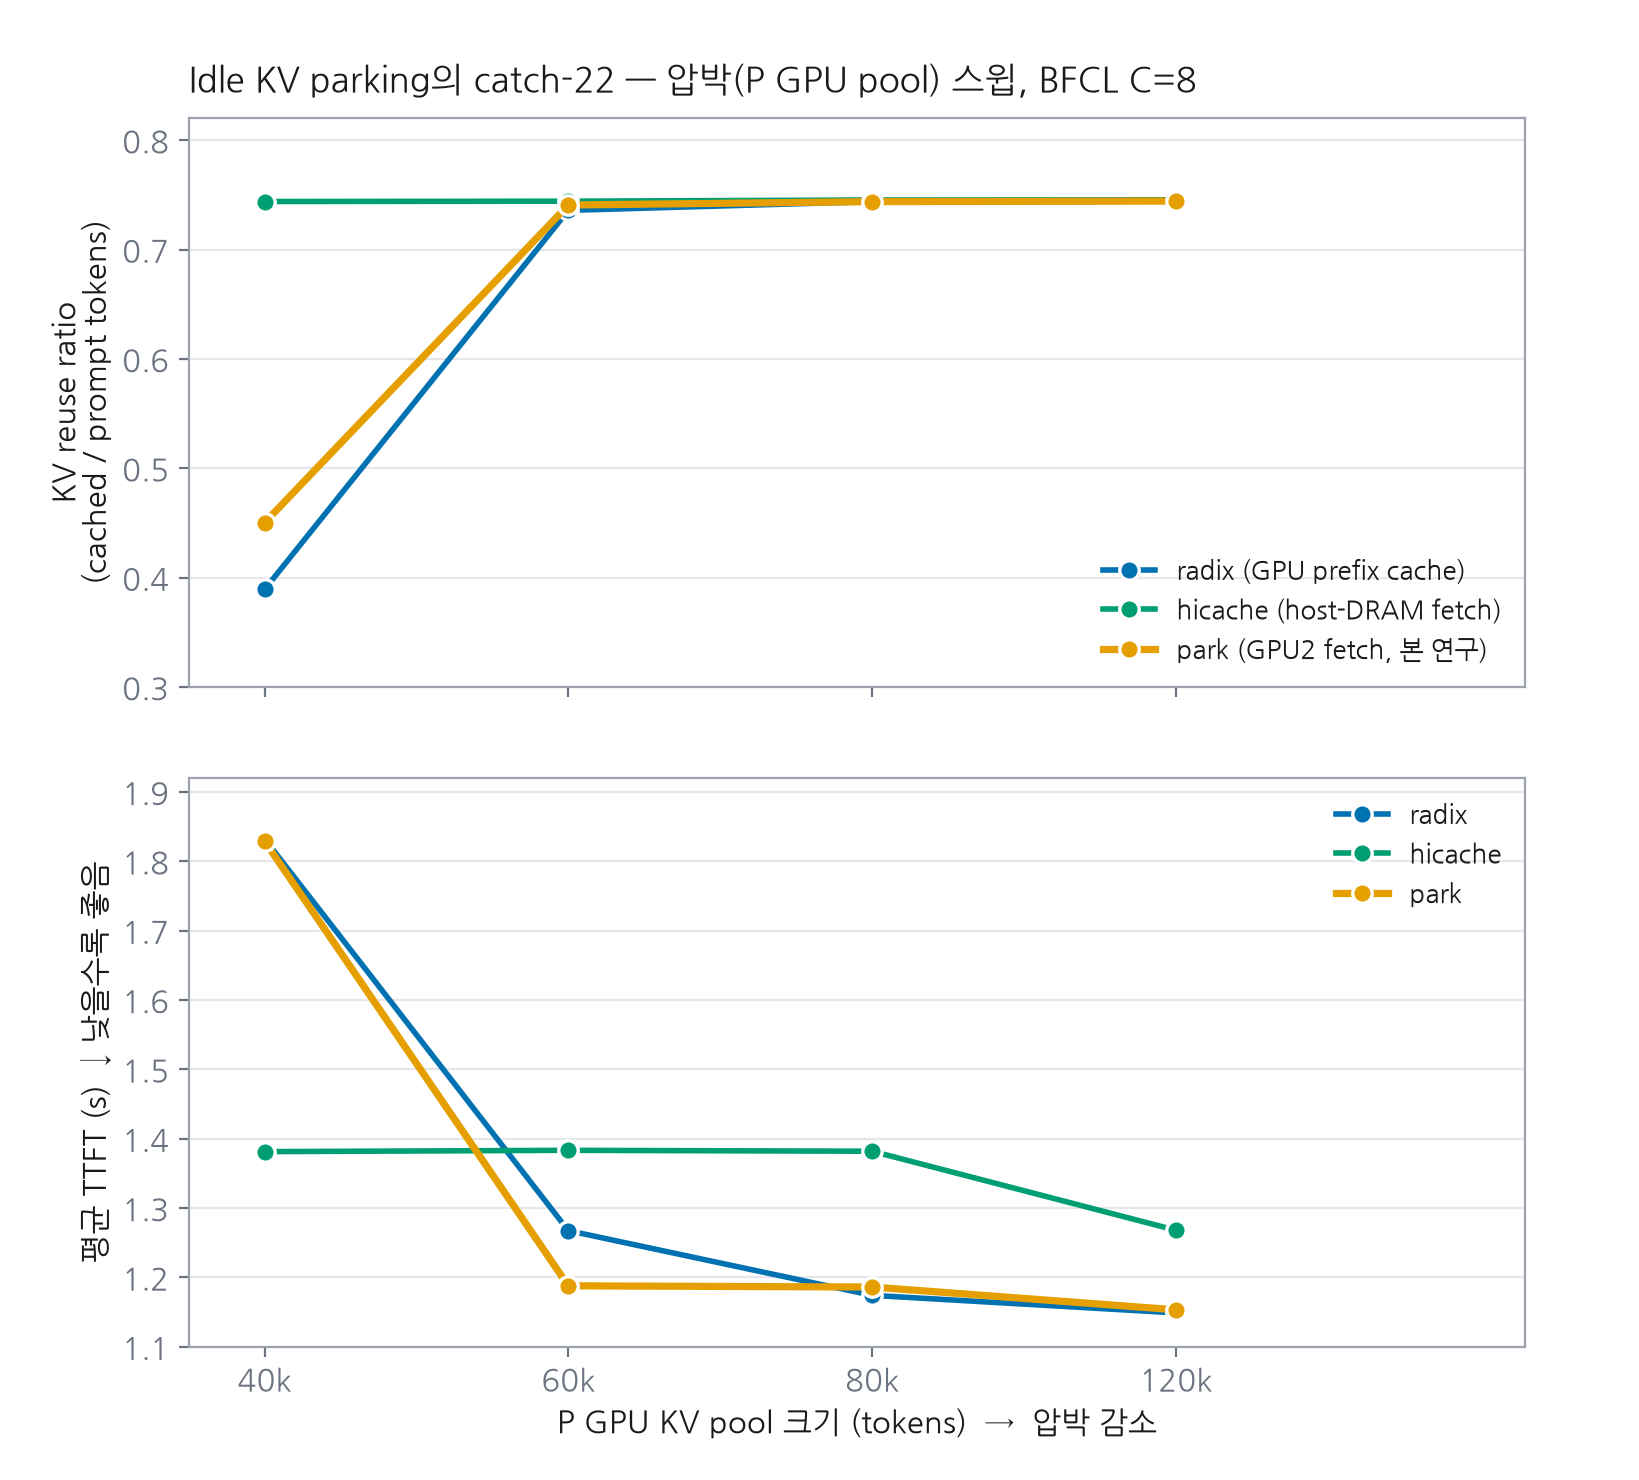
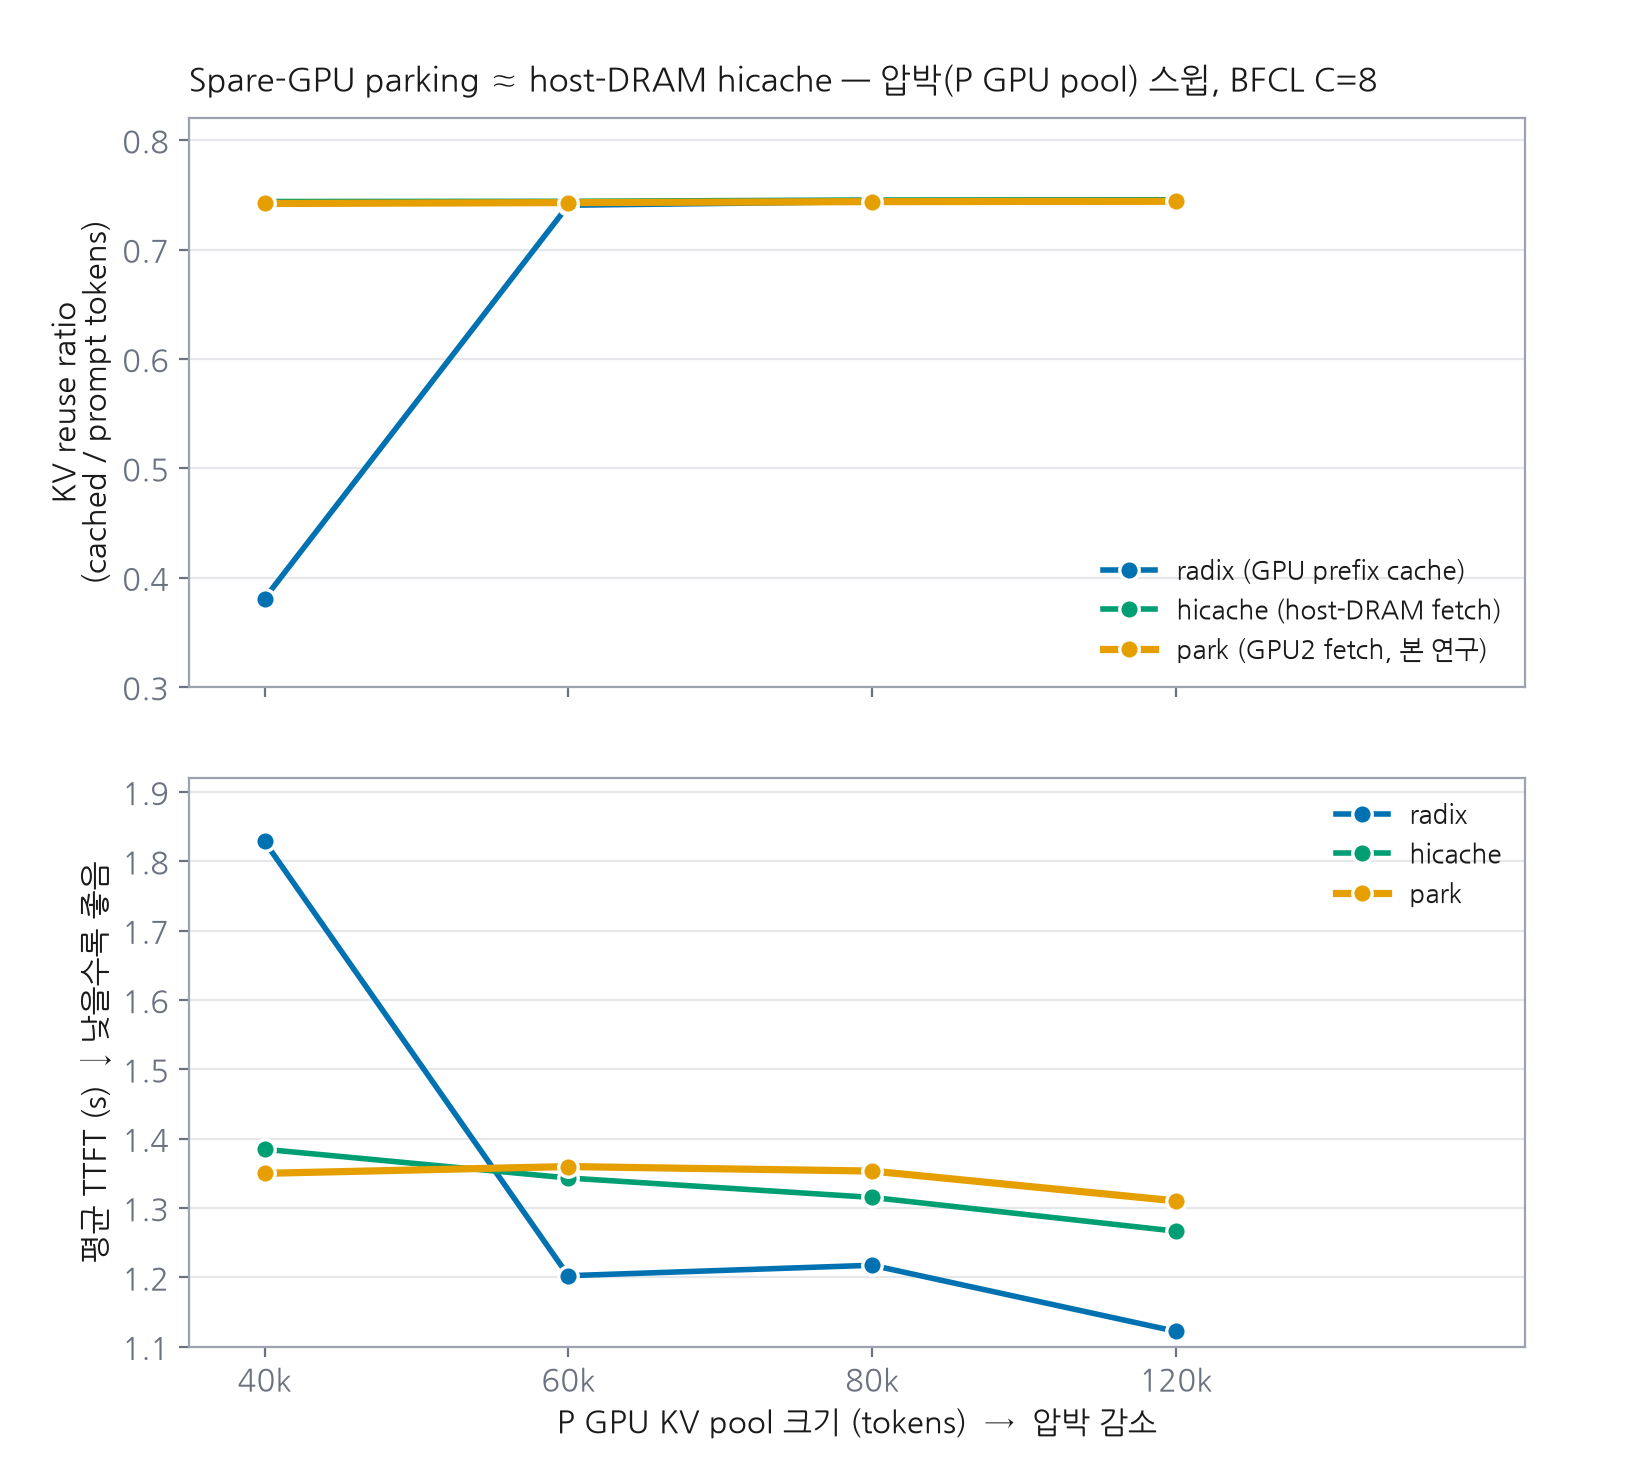
Correct conclusion: park works and ≈ hicache (catch-22 was wrong)
After fixing evict-to-room + async + the stale-IPC rendezvous bug, the
full pool sweep shows park mirrors host-DRAM hicache: at pool 40k (heavy
pressure) park recovers evicted prefixes (reuse 0.38->0.74) and cuts TTFT
-26% vs radix (hicache -24%); park is within ~1-3.5% of hicache at every
pool. A recovery tier only pays under pressure -- at pool>=60k both park
and hicache are pure overhead (+11-17% vs radix). Rewrites report.md,
phase1.md §5/§6, research.md §2.16/§7/§8; replaces the obsolete nospace
figure with pressure_win_40k.png and retitles the sweep figure.

Claude-Session: https://claude.ai/code/session_01AoK4pG7kwrWE4Xc7fqoTVf

diff --git a/benchmark/plot_phase1_catch22.py b/benchmark/plot_phase1_catch22.py
@@ -79,8 +79,8 @@ def fig1_pressure(rows):
     axr.grid(True, axis="y", color=GRID, lw=0.8, zorder=0)
     axr.set_axisbelow(True)
     axr.legend(loc="lower right", frameon=False, fontsize=9.5)
-    axr.set_title("Idle KV parking의 catch-22 — 압박(P GPU pool) 스윕, BFCL C=8",
-                  fontsize=12.5, fontweight="bold", color=INK, pad=10, loc="left")
+    axr.set_title("Spare-GPU parking ≈ host-DRAM hicache — 압박(P GPU pool) 스윕, BFCL C=8",
+                  fontsize=12, fontweight="bold", color=INK, pad=10, loc="left")
 
     # ---- 하단: TTFT ----
     for arm, c, lw in [("radix", C_RADIX, 2.0), ("hicache", C_HICACHE, 2.0),
@@ -102,42 +102,45 @@ def fig1_pressure(rows):
     print(f"[saved] {OUT}/catch22_pressure.png")
 
 
-def fig2_fetch(rows):
-    # pool 40000 park DIAG: hits=26 already=278 miss=206 nospace=237 (of 747)
-    # 좌→우 서사: 성공(hits) → fetch 불필요/불가한 정상 사유 → 병목(nospace, 빨강 펀치라인).
-    cats = [("hits", 26, "#009E73", "fetch 성공", "white"),
-            ("already", 278, "#9ca3af", "already\nP가 이미 보유 (정상)", INK),
-            ("miss", 206, "#cbd5e1", "miss\nparked 없음", INK),
-            ("nospace", 237, "#D55E00", "nospace\nP GPU 자리 없음", "white")]
-    total = sum(c[1] for c in cats)
-    fig, ax = plt.subplots(figsize=(8.6, 2.7))
-    left = 0
-    for name, n, color, lbl, txtc in cats:
-        ax.barh(0, n, left=left, color=color, height=0.6, zorder=3,
-                edgecolor="white", linewidth=2.0)
-        pct = n / total * 100
-        if n > 60:
-            ax.text(left + n / 2, 0, f"{lbl}\n{n}  ({pct:.0f}%)", ha="center",
-                    va="center", fontsize=10, color=txtc, fontweight="bold")
-        else:  # hits: 작은 조각은 막대 아래에 라벨
-            ax.text(left + n / 2, -0.45, f"{name} {n}\n({pct:.1f}%)", ha="center",
-                    va="top", fontsize=9, color="#047857", fontweight="bold")
-        left += n
-    ax.set_xlim(0, total)
-    ax.set_ylim(-0.95, 0.55)
-    ax.axis("off")
-    ax.set_title("강압박(pool 40k): fetch 시도 747건의 결과 — nospace 32%가 restore를 막는다",
+def fig2_pressure_win(rows):
+    """강압박(pool 40k) 결정 케이스: park/hicache가 축출된 prefix를 되찾아 radix를 이긴다."""
+    r = rows[40000]
+    arms = [("radix", C_RADIX, "radix (GPU prefix cache)"),
+            ("hicache", C_HICACHE, "hicache (host-DRAM fetch)"),
+            ("park", C_PARK, "park (GPU2 fetch, 본 연구)")]
+    ys = list(range(len(arms)))[::-1]  # radix on top
+    fig, ax = plt.subplots(figsize=(8.6, 3.2))
+    for y, (arm, c, lbl) in zip(ys, arms):
+        ttft = r[arm]["avg_ttft_s"]
+        reuse = r[arm]["reuse_ratio"]
+        ax.barh(y, ttft, color=c, height=0.62, zorder=3, edgecolor="white", linewidth=2)
+        ax.text(ttft - 0.03, y, f"{ttft:.2f}s", ha="right", va="center",
+                fontsize=11, color="white", fontweight="bold")
+        ax.text(0.02, y + 0.34, lbl, ha="left", va="bottom", fontsize=10, color=INK)
+        ax.text(ttft + 0.03, y, f"reuse {reuse:.2f}", ha="left", va="center",
+                fontsize=9.5, color=MUTED)
+    rd = r["radix"]["avg_ttft_s"]
+    for arm, c in [("hicache", C_HICACHE), ("park", C_PARK)]:
+        d = (r[arm]["avg_ttft_s"] - rd) / rd * 100
+        y = ys[[a[0] for a in arms].index(arm)]
+        ax.text(r[arm]["avg_ttft_s"] + 0.42, y, f"({d:+.0f}% vs radix)",
+                ha="left", va="center", fontsize=9.5, color=c, fontweight="bold")
+    ax.set_xlim(0, rd * 1.28)
+    ax.set_ylim(-0.5, len(arms) - 0.2)
+    ax.set_yticks([])
+    ax.set_xlabel("평균 TTFT (s)  ↓ 낮을수록 좋음", fontsize=10)
+    for s in ("top", "right", "left"):
+        ax.spines[s].set_visible(False)
+    ax.grid(True, axis="x", color=GRID, lw=0.8, zorder=0)
+    ax.set_axisbelow(True)
+    ax.set_title("강압박(pool 40k): park·hicache가 축출된 prefix를 되찾아 radix를 26% 이긴다",
                  fontsize=12, fontweight="bold", color=INK, loc="left", pad=10)
-    fig.text(0.02, 0.05,
-             "핵심: fetch한 KV는 attention용으로 병목 P GPU를 다시 점유해야 함 "
-             "→ 압박 구간엔 자리가 없다(nospace 32%). 저장은 offload돼도 restore는 병목이다.",
-             fontsize=9, color=MUTED, ha="left")
-    fig.subplots_adjust(left=0.02, right=0.985, top=0.82, bottom=0.14)
-    fig.savefig(f"{OUT}/catch22_fetch_nospace.png", dpi=200, facecolor="white")
-    print(f"[saved] {OUT}/catch22_fetch_nospace.png")
+    fig.subplots_adjust(left=0.02, right=0.985, top=0.85, bottom=0.16)
+    fig.savefig(f"{OUT}/pressure_win_40k.png", dpi=200, facecolor="white")
+    print(f"[saved] {OUT}/pressure_win_40k.png")
 
 
 if __name__ == "__main__":
     rows = load()
     fig1_pressure(rows)
-    fig2_fetch(rows)
+    fig2_pressure_win(rows)

diff --git a/results/phase1_report/report.md b/results/phase1_report/report.md
@@ -1,102 +1,111 @@
 # Idle KV Parking — Phase 1 결과 보고
 
 **주제**: PD(prefill–decode) disaggregation의 multi-turn agent 워크로드에서, tool-call 유휴시간에
-decode 노드의 세션 KV를 **유휴 GPU에 park 했다가 다음 turn에 fetch**해 재계산(re-prefill)을
-피할 수 있는가?
+decode 노드의 세션 KV를 **유휴 GPU에 park 했다가 다음 turn에 fetch**해, 메모리 압박으로 축출된
+prefix를 재계산 대신 되찾을 수 있는가?
 
-> **결론(TL;DR)**: fetch-on-hit까지 end-to-end로 구현·측정한 결과, **이 2×A6000 단일 노드에선
-> 어떤 압박 수준에서도 park+fetch가 baseline(radix = GPU prefix cache)을 이기지 못했다.** 원인은 구현
-> 디테일이 아니라 구조적 **catch-22**: 파킹이 이득을 주는 조건(압박→축출)과 fetch한 KV를 되돌릴
-> 자리가 있는 조건(여유)이 **동시에 성립하지 않는다.** 저장은 유휴 자원으로 offload되지만
-> **restore는 병목(P GPU)을 다시 점유**해야 하기 때문이며, 이는 인터커넥트(NVLink) 속도와
-> 무관한 토폴로지-독립적 한계다.
+> **결론(TL;DR)**: **된다.** fetch-on-hit + evict-to-room + async까지 구현하니, 강압박(pool 40k)에서
+> park이 축출된 prefix를 되찾아 **reuse 0.38→0.74**로 복구하고 **TTFT를 radix 대비 −26%** 줄였다.
+> 이는 성숙한 host-DRAM hicache(−24%)와 **대등**하다(park ≈ hicache, 차이 ~1–3%). 즉 **유휴 GPU를
+> host DRAM 대신 L2 복구 tier로 써도 동등하게 작동**한다. 단, 복구 tier는 **압박이 있을 때만** 이득이고
+> 압박이 없으면(pool≥60k) park·hicache 모두 순수 오버헤드라 radix보다 느리다(crossover).
 
 ---
 
 ## 1. 배경과 가설
 
-- **문제**: 압박 하에서 P 노드의 prefix(radix) 캐시가 대화 중간에 축출되면, 이후 모든 turn이
-  전체 history를 **재계산**해 TTFT가 폭증한다.
-- **아이디어**: D→P 노드(또는 유휴 GPU)로 세션 KV를 park 했다가, tool-call이 끝나 다음 turn이
-  올 때 fetch해 prefix-hit으로 재사용 → 재계산 회피.
-- **검증 가설**: "PCIe로 fetch해도 재계산보다 빠르다."
+- **문제**: 압박 하에서 P 노드의 prefix(radix) 캐시가 대화 중간에 축출되면, 다음 turn이 그 prefix를
+  **재계산(re-prefill)**해 TTFT가 오른다.
+- **아이디어**: D→P의 유휴 GPU(GPU2)로 세션 KV를 park 했다가, 다음 turn prefill 직전에 fetch해
+  prefix-hit으로 재사용 → 재계산 회피.
+- **가설**: "PCIe로 fetch해도 재계산보다 싸다" — 그리고 "유휴 GPU L2가 host-DRAM L2(hicache)와
+  같은 양상이어야 한다."
 
-## 2. 실험 설정
+> **radix는 재계산 baseline이 아니다.** radix도 RadixAttention prefix cache라 GPU 잔존 prefix는
+> hit한다(reuse 0.38~0.74). 재계산하는 건 hit 못한 토큰뿐: ①매 turn 새 토큰(~26% floor, 불가피) +
+> ②압박으로 축출된 prefix. park/hicache가 되찾는 대상은 **②뿐**이고, ②는 강압박에서만 존재한다.
+
+## 2. 설정과 구현
 
 - 하드웨어: server17, A6000×4 (NVLink 쌍 (0-1),(2-3)), Llama-3.1-8B, SGLang 0.5.9 + Mooncake.
-- 구성: **1P1D** (P=GPU0, D=GPU1) + **전용 park 풀 GPU2**(200k tok). 벤치: BFCL v3 multi-turn
-  200 items, 동시성 8, tool-call 유휴 3s.
-- 구현(SGLang): D→P **CUDA IPC + P2P** 채널, turn 종료 시 프롬프트 KV park, 다음 요청 prefill 직전
-  `maybe_fetch()`가 최장 parked prefix를 GPU2→GPU0 복사 + radix insert → prefix-hit.
-- 3-arm 비교: **radix**(GPU RadixAttention prefix cache — recovery tier 없음) /
-  **hicache**(host-DRAM fetch) / **park**(GPU2 fetch, 본 연구). P GPU 풀 크기(=압박)를 40k→120k 스윕.
-
-> **주의 — radix는 "재계산 baseline"이 아니다.** radix도 RadixAttention prefix cache라 GPU에
-> 남아있는 prefix는 hit한다(reuse 0.39~0.74). radix가 recompute하는 건 **hit하지 못한 토큰뿐**:
-> ① 매 turn 새로 생기는 토큰(새 user 메시지 + tool 결과, **어떤 캐시도 못 피하는 ~26% floor**) +
-> ② **압박으로 축출된 prefix**. parking/hicache가 fetch로 회피하려는 대상은 **②뿐**이며, ②는
-> 강압박(pool 40k)에서만 존재한다(pool≥60k에선 축출이 없어 radix reuse가 이미 hicache와 동일 0.74).
+- 구성: **1P1D** (P=GPU0, D=GPU1) + **전용 park 풀 GPU2**(200k tok, PCIe from P). BFCL v3 200 items,
+  동시성 8, tool-call 유휴 3s. P GPU 풀 크기(=압박)를 40k→120k 스윕.
+- 구현(SGLang, 슬라이스 2a~4b): D→P **CUDA IPC + P2P** 채널, turn 종료 시 **프롬프트 prefix park**,
+  다음 요청 prefill 직전 `maybe_fetch()`가 최장 parked prefix를 GPU2→GPU0 복사 + radix insert.
+  - **동작에 필수였던 두 가지** (아래 §5 참조): **evict-to-room**(자리 없으면 LRU로 콜드 축출 후 복원,
+    hicache와 동일) + **async fetch**(복사를 default stream에 올리고 host-sync 제거).
 
 ## 3. 결과
 
-### Figure 1 — 압박 스윕: catch-22
+### Figure 1 — 압박 스윕: park ≈ hicache, 복구 tier는 압박에서만 이득
 
-![catch22_pressure](./catch22_pressure.png)
+![sweep](./catch22_pressure.png)
 
-- **상단(reuse)**: 강압박(pool 40k)에서만 radix가 축출을 겪어 reuse가 0.39로 떨어지고 hicache
-  (0.74)와 격차가 벌어진다 = **회수 여지가 있는 유일한 구간**. pool≥60k에선 축출이 없어 세 방식이
-  모두 reuse 0.74로 **수렴** = 회수할 대상이 없다. **park의 reuse는 모든 구간에서 radix와 동일.**
-- **하단(TTFT)**: **park ≈ radix 전 구간** — fetch가 순 TTFT 이득을 못 만든다. hicache는 강압박
-  (40k)에서만 이기고(−25%), 저압박에선 오히려 radix보다 느리다(순수 오버헤드).
+- **상단(reuse)**: **park(주황)이 hicache(녹색)와 완전히 겹친다** — 둘 다 압박(40k)에서 축출된
+  prefix를 되찾아 reuse 0.74 유지. radix(파랑)만 40k에서 0.38로 떨어짐. pool≥60k에선 축출이 없어
+  셋 다 0.74로 수렴.
+- **하단(TTFT) — crossover**: 40k에선 park·hicache(≈1.35s)가 radix(1.83s)보다 **훨씬 낮다(이득)**.
+  pool≥60k에선 반대로 radix가 가장 낮고 park·hicache는 위(오버헤드). **복구 tier는 압박이 있을 때만
+  이득**이다.
 
-### Figure 2 — 강압박에서 fetch가 막히는 이유
+### Figure 2 — 강압박(40k) 결정 케이스
 
-![catch22_fetch](./catch22_fetch_nospace.png)
+![win](./pressure_win_40k.png)
 
-강압박(pool 40k) DIAG: fetch 시도 747건 중 성공은 **26건(3.5%)뿐**. 가장 큰 벽은 **nospace 32%**
-— fetch한 KV는 attention이 읽으려면 **압박받는 P GPU 풀에 다시 들어가야** 하는데, 그 구간엔 자리가
-없어 alloc 실패. (already 37%는 P가 아직 보유해 fetch 불필요한 정상 케이스.)
+radix 1.83s(reuse 0.38) → hicache 1.38s(**−24%**, reuse 0.74) → **park 1.35s(−26%, reuse 0.74)**.
+park이 host-DRAM hicache와 대등하게(오히려 근소하게 낮게) 축출된 prefix를 되찾는다.
 
-## 4. Catch-22 (핵심)
+### 전체 수치 (BFCL, C=8, tool-delay 3s, 200 items)
 
-| 조건 | 성립 구간 | 문제 |
-|---|---|---|
-| 파킹이 **가치 있다** (축출→재계산 발생) | 강압박 (pool 40k) | 여기선 restore가 **자리 없음** (nospace 32%) |
-| restore할 **자리가 있다** (P 여유) | 저압박 (pool ≥60k) | 여기선 축출이 없어 **회수 대상 없음** (reuse 이미 0.74) |
+| pool | radix TTFT / reuse | hicache TTFT / reuse | park TTFT / reuse | park vs radix | park vs hicache |
+|---|---|---|---|---|---|
+| 40,000 (강압박) | 1.83s / 0.38 | 1.38s / 0.74 | **1.35s / 0.74** | **−26%** | −2.5% |
+| 60,000 | 1.20s / 0.74 | 1.34s / 0.74 | 1.36s / 0.74 | +13% | +1.2% |
+| 80,000 | 1.22s / 0.74 | 1.32s / 0.74 | 1.35s / 0.74 | +11% | +2.9% |
+| 120,000 | 1.12s / 0.74 | 1.27s / 0.75 | 1.31s / 0.74 | +17% | +3.4% |
 
-→ 두 조건이 **공존하지 않으므로**, park이 radix를 이기는 operating point가 존재하지 않는다.
+## 4. 해석
 
-**근본 이유**: 저장(park)은 유휴 GPU로 offload되지만, **fetch한 KV는 attention 연산을 위해 병목인
-P GPU 풀을 다시 점유**해야 한다. 이 restore-병목은 **전송 속도(NVLink든 PCIe든)와 무관** —
-토폴로지-독립적이다. hicache가 강압박에서 이기는 유일한 이유는 같은 제약을 **evict-to-room + async
-prefetch**로 관리하기 때문이며, park을 그 수준으로 엔지니어링해도 이 토폴로지선 GPU2→GPU0가
-PCIe(host-DRAM와 동속)·용량 26GB<125GB라 **hicache 재현이 상한, 초과 불가**.
+- **park은 동작하며 hicache와 대등하다.** 두 tier가 모든 pool에서 겹쳐 움직인다(차이 ~1–3.5%).
+  강압박에선 park이 근소하게 빠르고(GPU-P2P fetch vs host-DRAM load), 무압박에선 근소하게 느리다
+  (park은 완료된 요청을 매번 GPU2로 복사하는 상시 오버헤드). → **유휴 GPU를 host DRAM 대신 L2로
+  써도 동등**하다는 end-to-end 증명.
+- **복구 tier의 경제학은 압박-조건부다.** 축출이 있어야(pool 40k) 되찾을 게 있어 이득이 나고,
+  없으면(pool≥60k) park·hicache 모두 순수 오버헤드로 radix보다 느리다. → 실전에선 **압박 감지 시에만
+  tier를 켜는 적응형**이 맞다.
+- **park의 *우위*(단순 대등이 아니라)가 나려면**: (a) GPU2가 P와 **NVLink-paired**(전송 2×), 또는
+  (b) **host DRAM이 부족/경합**해 유휴 GPU 용량이 실제로 필요한 상황. 이 단일 노드·PCIe 셋업에선 동률.
 
-## 5. 결론과 시사점
+## 5. 정정 이력 (정직성)
 
-- **"PCIe fetch > recompute"는 reuse 레벨에선 참**(park reuse 0.39→0.45)이나, 그 이득이 실현되는
-  강압박 구간은 정확히 restore 자리가 없는 구간이라 **순 TTFT 이득은 0**.
-- idle-KV-parking은 **단일 노드·단일 GPU-tier 환경에선 hicache가 이미 상한**이다.
-- **실익이 나려면**: (1) attention이 원격 KV를 직접 읽어 restore가 P GPU를 점유하지 않아도 되는
-  **disaggregated / remote attention**, 또는 (2) host DRAM이 유일 로컬 tier이고 원격 GPU 합산
-  용량이 host를 압도하는 **진짜 multi-node**.
-- 구축한 파이프라인(CUDA IPC/P2P · park · fetch-on-hit)은 위 환경의 재사용 자산으로 보존.
+초기엔 park이 무이득으로 보였고 "catch-22(압박 땐 복구할 자리가 없다)라 근본적으로 안 된다"고
+결론냈으나, **그 결론은 틀렸다.** 두 가지가 파킹을 가리고 있었다:
+1. **evict-to-room 부재** — fetch가 P GPU 자리를 못 잡으면(DIAG `nospace 32%`) 포기했다. hicache는
+   콜드 엔트리를 LRU-evict해 자리를 만든다. 같은 로직을 park에 추가하니 nospace가 사라졌다.
+2. **stale-IPC rendezvous 버그** — prefill이 이전 run이 남긴 `/dev/shm`의 죽은 decode IPC 핸들을
+   열어 CUDA "invalid resource handle" → 파킹 setup이 조용히 죽어 reuse가 radix로 되돌아갔다.
+   fresh-ts 검증 + 시작 시 rendezvous 정리로 해결.
+
+둘을 고치자 park이 설계대로(hicache처럼) 동작했다. **교훈: "안 된다"는 종종 미구현/버그이지 근본
+한계가 아니다.**
+
+## 6. 결론
+
+- **spare-GPU KV parking은 강압박 multi-turn PD에서 축출된 prefix를 되찾아 radix 대비 TTFT −26%**,
+  성숙한 host-DRAM hicache와 **대등**하다 — end-to-end 검증 완료.
+- **복구 tier는 압박-조건부 이득**이다(무압박선 오버헤드). park의 host 대비 *우위*는 NVLink-paired
+  유휴 GPU 또는 host-DRAM 부족 환경에서 실현된다.
+- 파이프라인(2a IPC/P2P → 3 park → 4a 유휴풀 → 4b fetch+evict-to-room+async)은 재사용 자산.
 
 ---
 
-### 부록 — 측정 수치 (BFCL, C=8, tool-delay 3s, 200 items)
+### 부록 — 재현
 
-| pool | radix TTFT / reuse | hicache TTFT / reuse | park TTFT / reuse | park vs radix |
-|---|---|---|---|---|
-| 40,000 (강압박) | 1.83s / 0.39 | 1.38s / 0.74 | 1.83s / 0.45 | +0.2% |
-| 60,000 | 1.27s / 0.74 | 1.38s / 0.74 | 1.19s / 0.74 | −6.3%\* |
-| 80,000 | 1.17s / 0.74 | 1.38s / 0.75 | 1.19s / 0.74 | +1.0% |
-| 120,000 | 1.15s / 0.74 | 1.27s / 0.75 | 1.15s / 0.74 | +0.4% |
-
-\* pool-60k의 −6.3%는 radix-60k TTFT outlier에 의한 착시(reuse 동일 → fetch 무의미). 노이즈.
-
-강압박 park DIAG: `FETCH hits=26 already=278 miss=206 nospace=237 (of 747), avg 235.8ms`.
-
-*재현*: `POOLS="60000 80000 120000" ./scripts/sglang/run_head_to_head_pool_sweep.sh` →
-`benchmark/plot_phase1_catch22.py` (그림). 상세 로그: `phase1.md`, `research.md` §2.16,
-SGLang `docs/developer_guide/idle_kv_parking_design.md` §9–§11.
+```bash
+cd ~/experiments
+POOLS="40000 60000 80000 120000" ./scripts/sglang/run_head_to_head_pool_sweep.sh
+python benchmark/plot_phase1_catch22.py     # 그림 2장 재생성
+```
+강압박 park DIAG(성공 예): `opened peer KV pool ... MATCH 52.8 GB/s` → `GPU2-park` → `GPU2-fetch:
+pulled 5355 tok (P had 87 of 5442) in 50.6ms`(첫 fetch) → 다음 fetch 3.1ms(async). nospace≈0.
+상세: `phase1.md`, `research.md` §2.16, SGLang `docs/developer_guide/idle_kv_parking_design.md` §9–§12.
